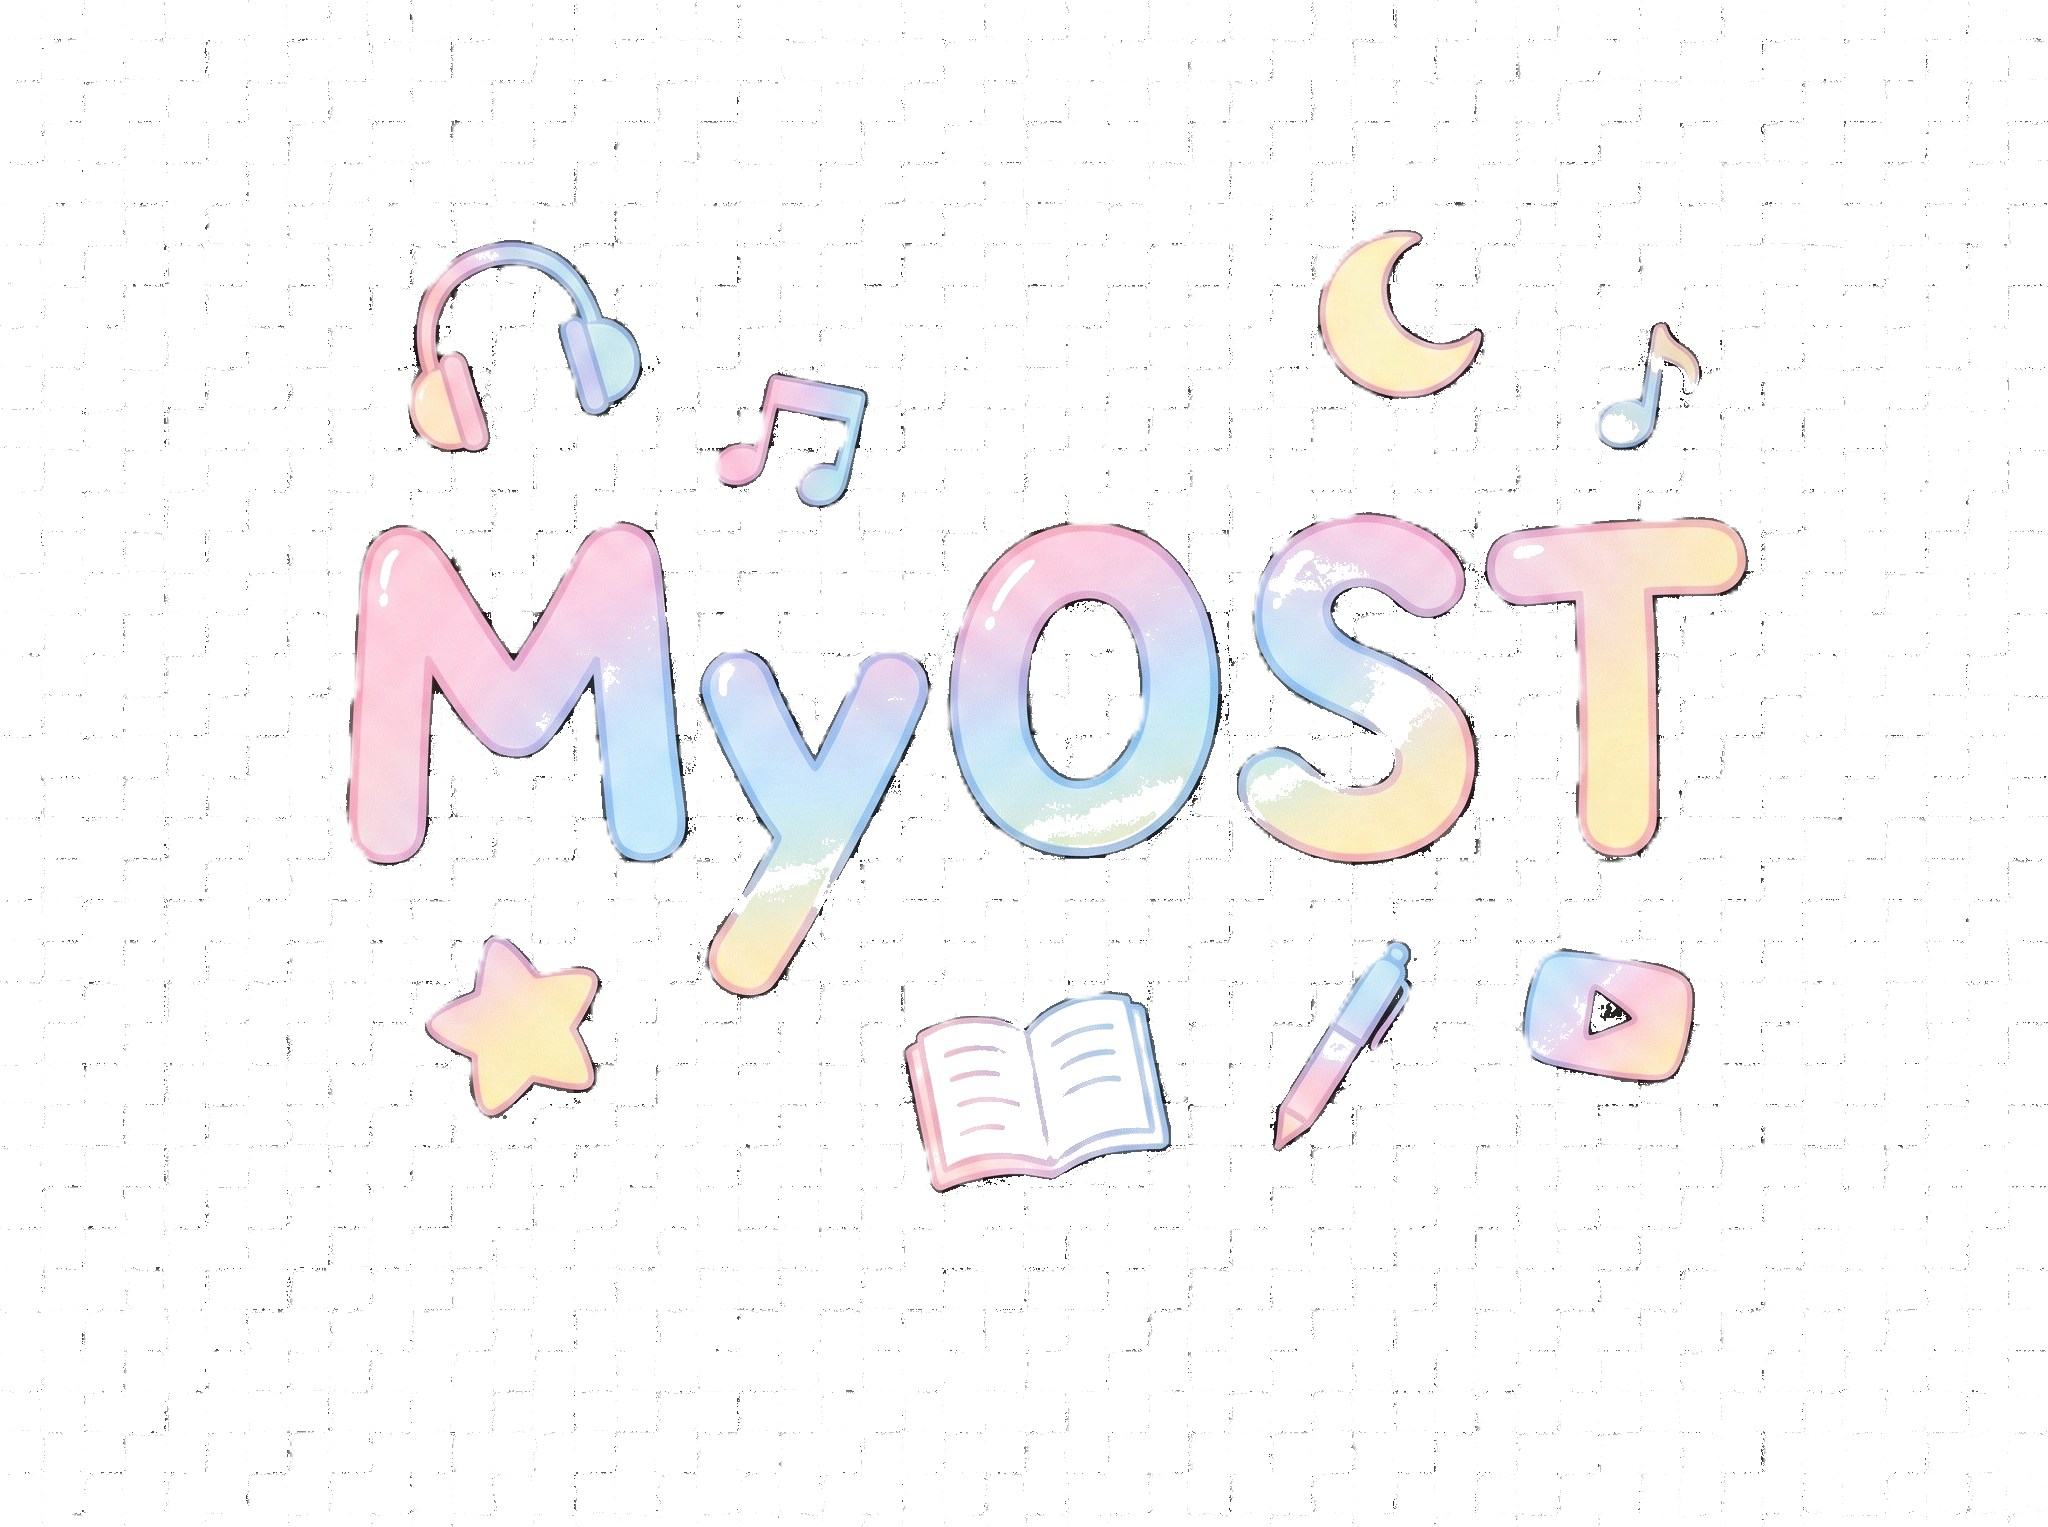
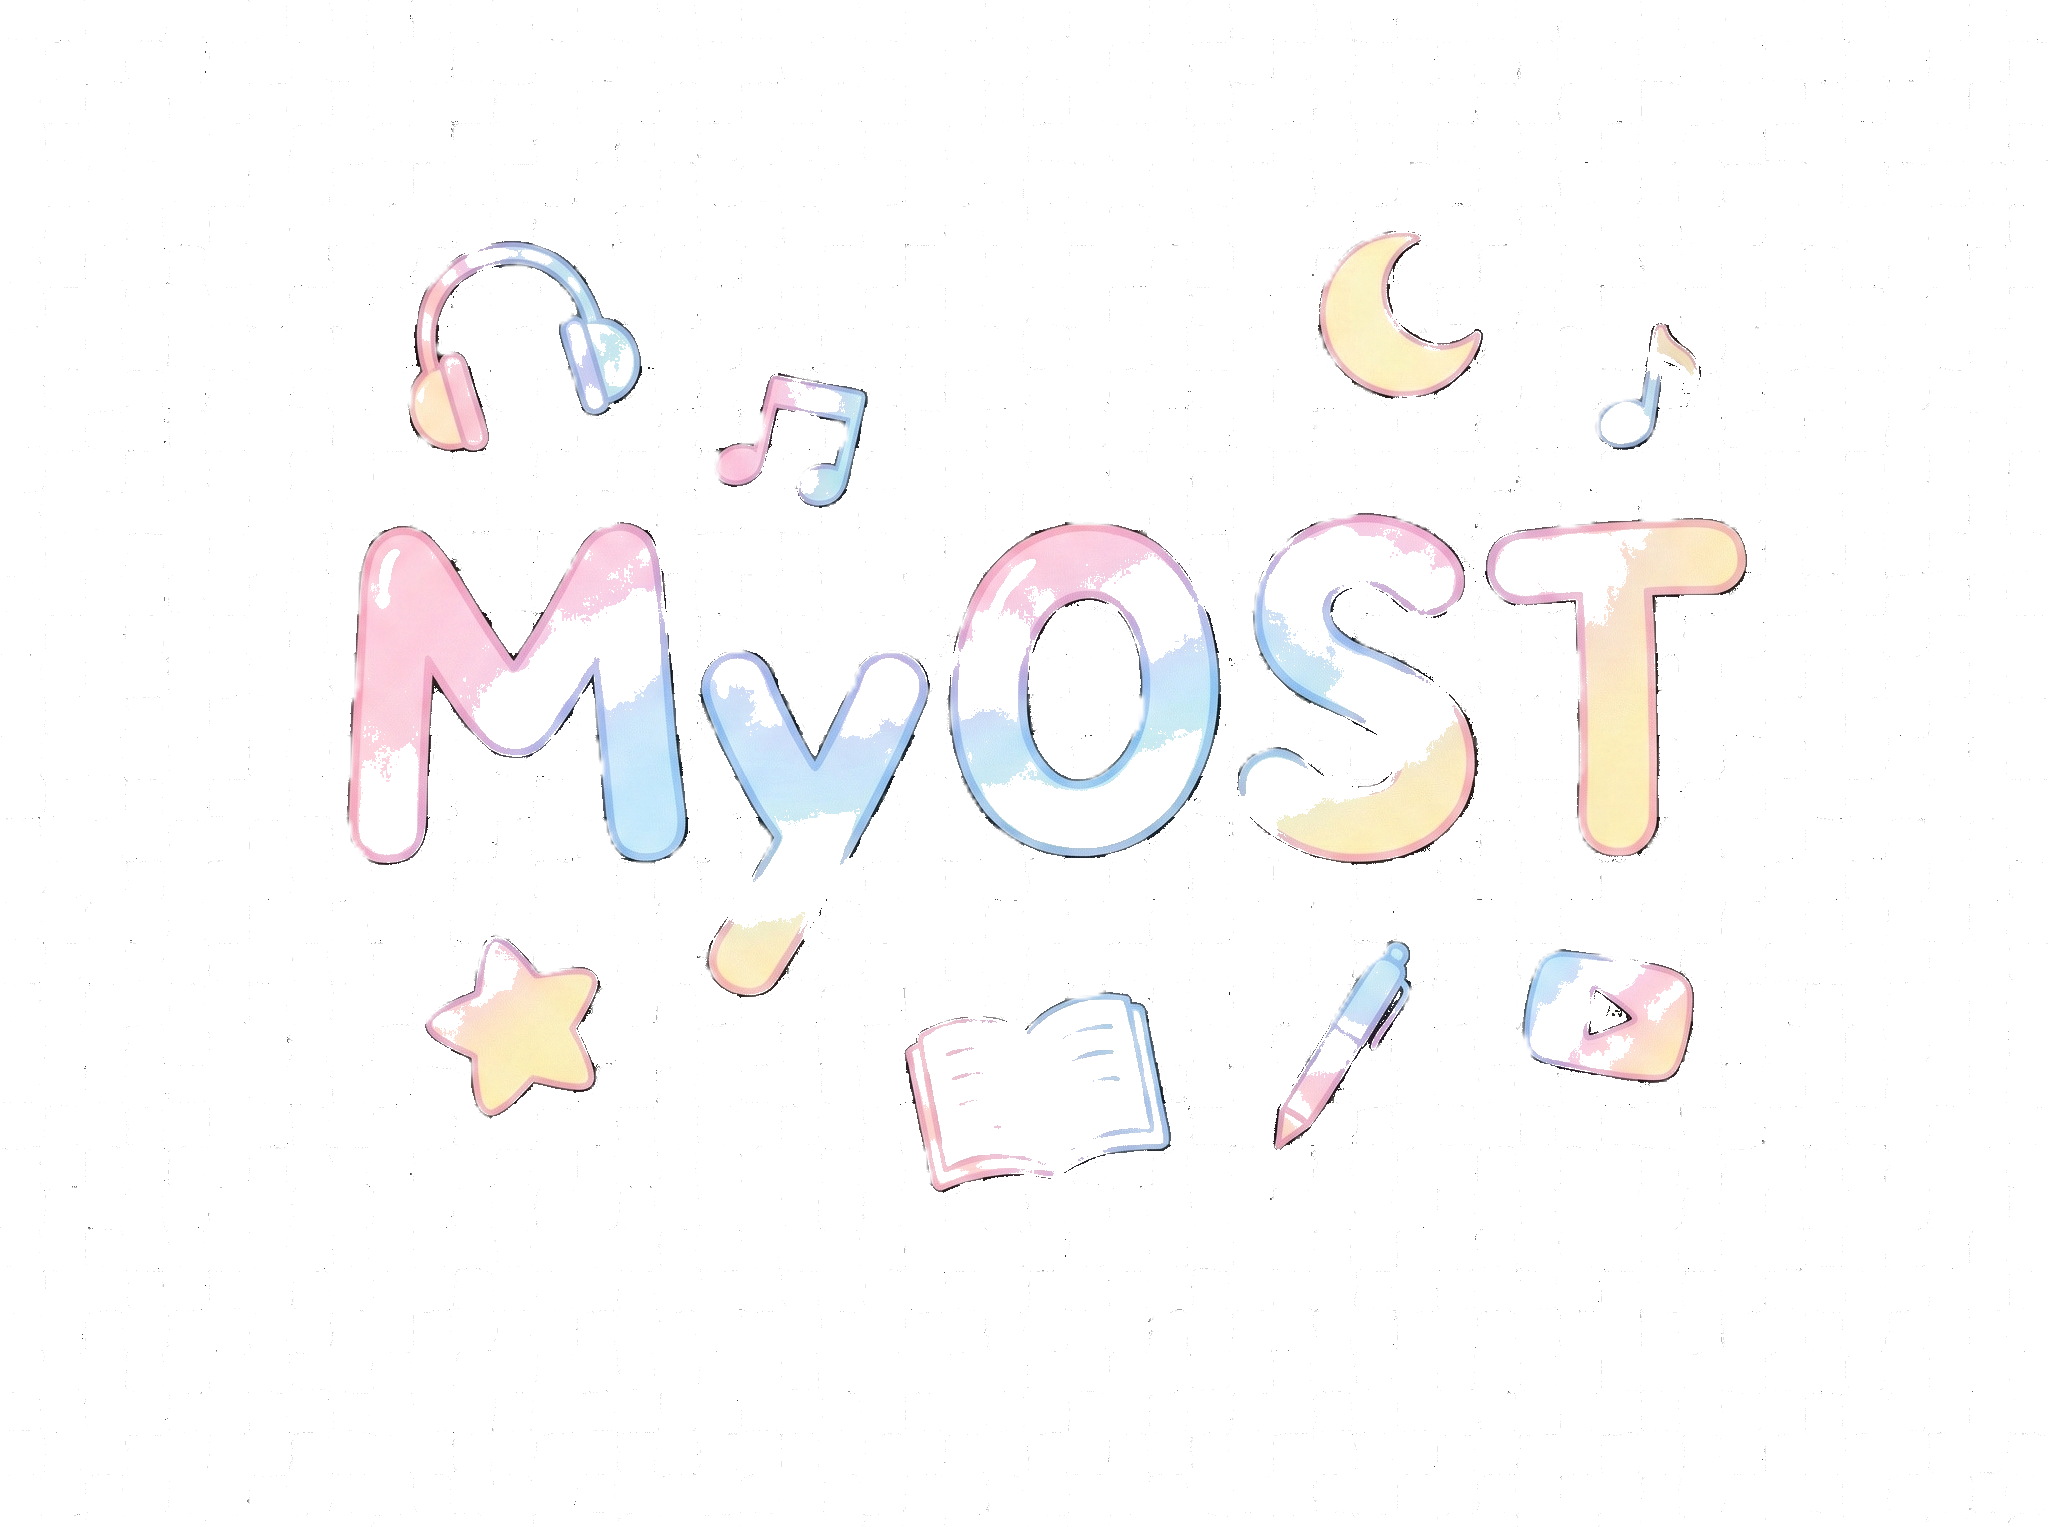
fix: 타이틀 체크무늬 완전 제거 + 로그인 Access Denied 수정
- 타이틀 이미지 저채도 픽셀 투명 처리로 체크무늬 제거
- signIn 콜백: DB 실패해도 로그인 허용 (graceful degradation)

diff --git a/src/lib/auth.ts b/src/lib/auth.ts
@@ -16,14 +16,10 @@ export const { handlers, auth, signIn, signOut } = NextAuth({
   },
   callbacks: {
     async signIn({ user, account }) {
+      if (!account || !user.email) return false;
+
       try {
-        if (!account || !user.email) {
-          console.error("SignIn: missing account or email", { account: !!account, email: user.email });
-          return false;
-        }
-
         const supabase = getAdminClient();
-
         const { error } = await supabase.from("users").upsert(
           {
             email: user.email,
@@ -38,14 +34,13 @@ export const { handlers, auth, signIn, signOut } = NextAuth({
 
         if (error) {
           console.error("User upsert error:", JSON.stringify(error));
-          return false;
+          // DB 실패해도 로그인은 허용 (세션은 유지, DB 동기화는 나중에)
         }
-
-        return true;
       } catch (err) {
         console.error("SignIn callback exception:", err);
-        return false;
       }
+
+      return true;
     },
 
     async jwt({ token, account }) {
